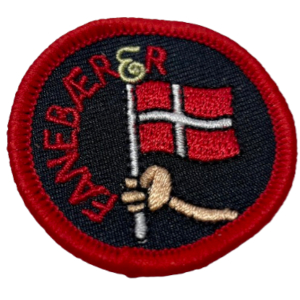
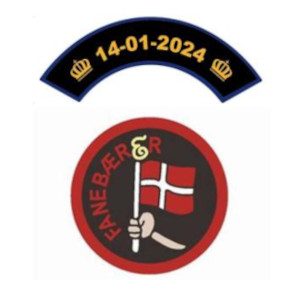
fanebaerer update

diff --git a/_m/fanebaerer.md b/_m/fanebaerer.md
@@ -8,4 +8,8 @@ date_added: 2023-10-13
 ---
 Skarridsø Gruppe er meget glade for og stolte af at have overtaget salg og rettigheder til dette helt specielle mærke, opfundet af Skjalm Hvide Division.
 <br>
-Når man er fyldt 14 år og har gennemført et af Danmarkssamfundets Fanebærerkurser, har man gjort sig fortjent til at få syet dette mærke på uniformen.
+Når man er fyldt 14 år og har gennemført et af Danmarkssamfundets Fanebærerkurser, har man gjort sig fortjent til at få syet dette mærke på uniformen. 
+
+Hvis man var Fanebærer ved Tronskiftet 14-01-2024 har man desuden ret til at få syet et omkredsmærke på.
+
+Mærket er vævet og ca. 4 cm i diameter med broderet kant og skrift.
